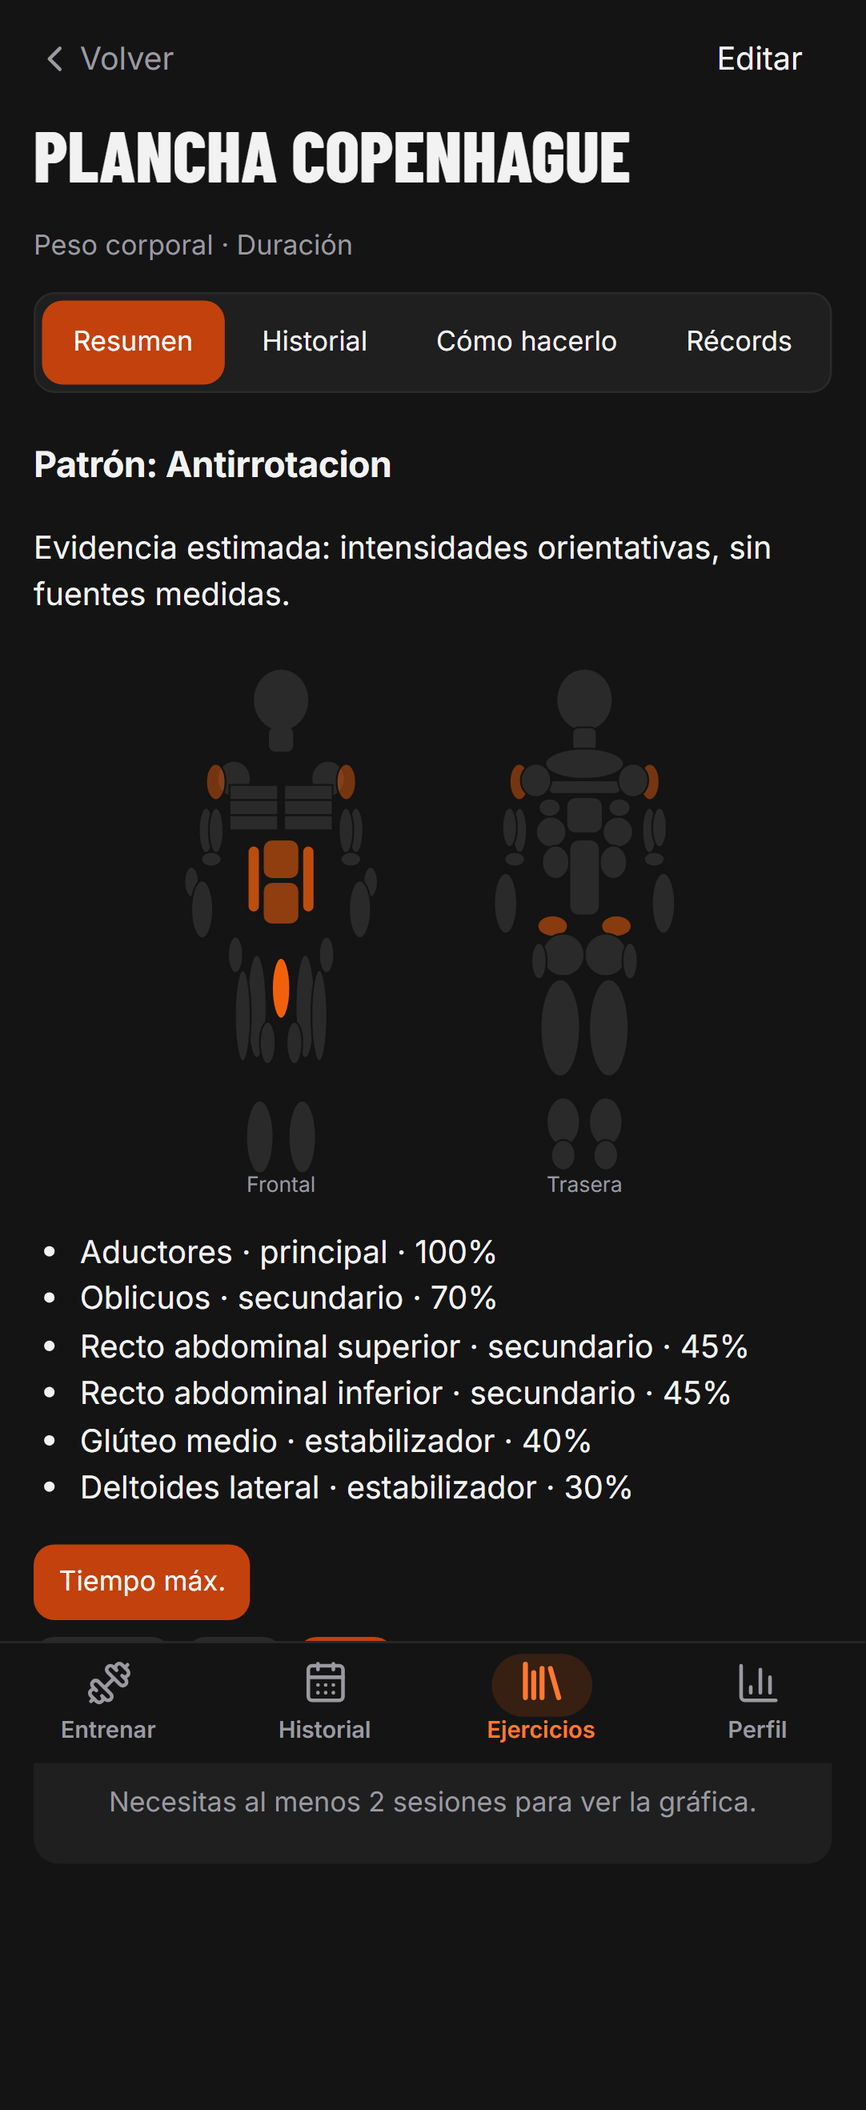
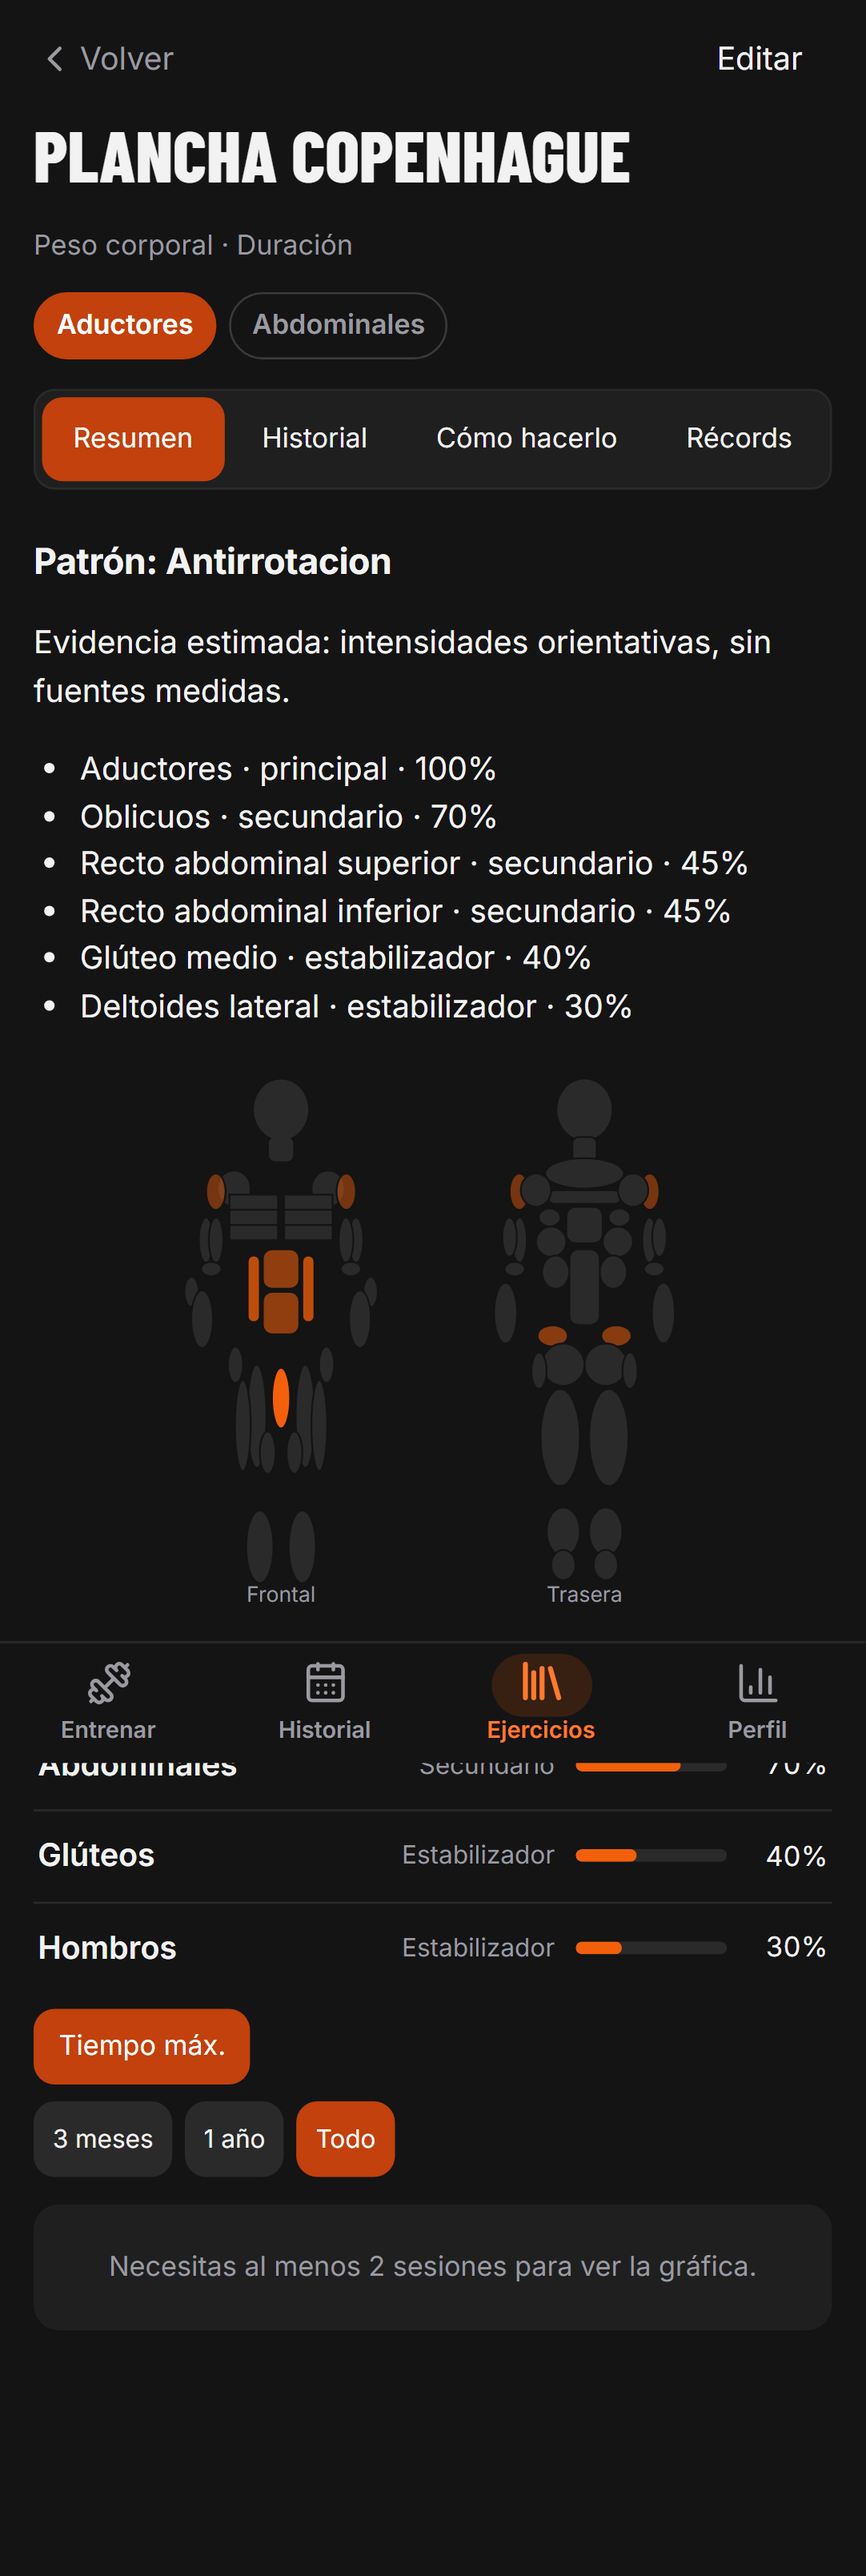
Restaura el mapa interactivo y protege las fuentes sin enlace

diff --git a/app/src/components/ExercisesTab.tsx b/app/src/components/ExercisesTab.tsx
@@ -6,7 +6,8 @@ import { englishName, searchExdb, type ExdbExercise } from '../../../shared/exer
 import { loadExdbList, useExdbConfig } from '../exdb';
 import { chat } from '../../../shared/ai';
 import { EXERCISE_KIND_LABELS, MUSCLE_LABELS, catalogLabel } from '../../../shared/exercises';
-import { MuscleFilter, ScienceMap } from './BodyMap';
+import { MuscleFilter, MuscleMap } from './BodyMap';
+import { exerciseActivation, isRegion, REGIONS } from '../../../shared/muscle-detail';
 import { availableExerciseScience } from '../../../shared/exercise-filter';
 import { estimate1RM, exerciseHistory, formatDuration, formatSet, personalRecords, repRecords, type ExerciseSession } from '../../../shared/stats';
 import type { Exercise, ExerciseKind, WorkoutSet } from '../../../shared/types';
@@ -285,6 +286,15 @@ function ExerciseDetail({ id, onBack }: { id: string; onBack: () => void }) {
       <p className="muted small">
         {cap(catalogLabel(e.equipment))} · {EXERCISE_KIND_LABELS[e.kind]}
       </p>
+      <ul className="exinfo-chips exdetail-chips" aria-label="Músculos principales y secundarios">
+        {exerciseActivation(e)
+          .filter((a) => a.pct >= 45)
+          .map((a) => (
+            <li key={a.group} className={a.pct >= 80 ? 'main' : undefined}>
+              {a.label}
+            </li>
+          ))}
+      </ul>
       <div className="segmented fit">
         {(['summary', 'history', 'howto', 'records'] as const).map((t) => (
           <button key={t} className={tab === t ? 'on' : ''} onClick={() => setTab(t)}>
@@ -299,16 +309,26 @@ function ExerciseDetail({ id, onBack }: { id: string; onBack: () => void }) {
             <section aria-label="Evidencia del ejercicio">
               <h2>Patrón: {cap(science.patron.replaceAll('-', ' '))}</h2>
               <p>{science.evidencia === 'estimada' ? 'Evidencia estimada: intensidades orientativas, sin fuentes medidas.' : `Evidencia: ${science.evidencia === 'emg' ? 'EMG' : 'hipertrofia'}`}</p>
-              <ScienceMap exercise={e} />
+              <ul aria-label="Músculos por rol">
+                {science.musculos.map((m) => (
+                  <li key={m.id}>
+                    {isRegion(m.id) ? REGIONS[m.id][1] : MUSCLE_LABELS[m.id]} · {m.rol} · {m.intensidad}%
+                  </li>
+                ))}
+              </ul>
               {science.fuentes.length > 0 && (
                 <>
                   <h3>Fuentes</h3>
                   <ul>
                     {science.fuentes.map((source, i) => (
                       <li key={i}>
-                        <a href={source.url ?? `https://doi.org/${source.doi}`} target="_blank" rel="noopener noreferrer">
-                          {source.titulo}
-                        </a>{' '}
+                        {source.url || source.doi ? (
+                          <a href={source.url ?? `https://doi.org/${source.doi}`} target="_blank" rel="noopener noreferrer">
+                            {source.titulo}
+                          </a>
+                        ) : (
+                          <span>{source.titulo}</span>
+                        )}{' '}
                         · {source.autores.join(', ')} ({source.año})
                       </li>
                     ))}
@@ -317,6 +337,7 @@ function ExerciseDetail({ id, onBack }: { id: string; onBack: () => void }) {
               )}
             </section>
           )}
+          <MuscleMap exercise={e} />
           {exdbCfg.key && (
             <button className="ghost small icon-btn" onClick={() => setPickGif(true)}>
               <Film size={15} /> {e.exdbId ? 'Cambiar GIF' : 'Elegir GIF'}

diff --git a/app/src/components/BodyMap.tsx b/app/src/components/BodyMap.tsx
@@ -3,8 +3,6 @@
 import { useState } from 'react';
 import { MUSCLE_LABELS } from '../../../shared/exercises';
 import { exerciseActivation, intensityLabel, REGIONS, type Region } from '../../../shared/muscle-detail';
-import { availableExerciseScience } from '../../../shared/exercise-filter';
-import { isRegion } from '../../../shared/muscle-detail';
 import type { Exercise, MuscleGroup } from '../../../shared/types';
 
 type Shape = { m: MuscleGroup | null; reg?: Region; d: string; clip?: string };
@@ -111,13 +109,7 @@ export default function BodyMap({ sets, fatigue = false }: { sets: Partial<Recor
           const v = s.m ? (sets[s.m] ?? 0) : 0;
           const ratio = v / max;
           return (
-            <path
-              key={i}
-              d={s.d}
-              clipPath={s.clip}
-              className={s.m ? 'bm-muscle' : 'bm-base'}
-              style={s.m && v ? { fill: fatigue ? 'var(--warn)' : 'var(--accent)', fillOpacity: 0.25 + 0.75 * ratio } : undefined}
-            >
+            <path key={i} d={s.d} clipPath={s.clip} className={s.m ? 'bm-muscle' : 'bm-base'} style={s.m && v ? { fill: fatigue ? 'var(--warn)' : 'var(--accent)', fillOpacity: 0.25 + 0.75 * ratio } : undefined}>
               {s.m && <title>{fatigue ? `${MUSCLE_LABELS[s.m]}: ${Math.round((1 - v) * 100)}% recuperado` : `${MUSCLE_LABELS[s.m]}: ${Math.round(v * 10) / 10} series`}</title>}
             </path>
           );
@@ -260,38 +252,5 @@ export function MuscleFilter({ value, onPick }: { value: MuscleGroup | ''; onPic
         );
       })}
     </svg>
-  );
-}
-
-/** Mapa científico: colores y roles proceden exclusivamente de metadatos explícitos. */
-export function ScienceMap({ exercise }: { exercise: Exercise }) {
-  const science = availableExerciseScience(exercise);
-  if (!science) return null;
-  return (
-    <div className="bodymap">
-      <svg viewBox="0 0 200 180" role="img" aria-label="Intensidad muscular según los metadatos">
-        {PEC_CLIP}
-        {SHAPES.map((shape, index) => {
-          const activation = science.musculos.find((m) => m.id === shape.reg) ?? science.musculos.find((m) => m.id === shape.m);
-          return (
-            <path
-              key={index}
-              d={shape.d}
-              clipPath={shape.clip}
-              className={shape.m ? 'bm-muscle' : 'bm-base'}
-              style={activation ? { fill: 'var(--accent)', fillOpacity: 0.2 + (0.8 * activation.intensidad) / 100 } : undefined}
-            />
-          );
-        })}
-        <Labels />
-      </svg>
-      <ul aria-label="Músculos por rol">
-        {science.musculos.map((m) => (
-          <li key={m.id}>
-            {isRegion(m.id) ? REGIONS[m.id][1] : MUSCLE_LABELS[m.id]} · {m.rol} · {m.intensidad}%
-          </li>
-        ))}
-      </ul>
-    </div>
   );
 }

diff --git a/e2e/app.spec.ts b/e2e/app.spec.ts
@@ -501,13 +501,17 @@ test('cada ejercicio marca sus músculos con intensidad y partes', async ({ page
   const row = page.locator('.exrow', { hasText: 'Press de banca (barra)' }).first();
   await expect(row.locator('svg.bm-thumb')).toHaveCount(1);
   await row.click();
-  const groups = page.getByRole('list', { name: 'Músculos por rol' });
-  await expect(groups).toContainText('Pecho');
-  await expect(groups).toContainText('principal');
-  await expect(groups).toContainText('100%');
-  await expect(groups).toContainText('secundario');
-  await expect(page.getByRole('img', { name: 'Intensidad muscular según los metadatos' })).toBeVisible();
-  await expect(groups).toContainText('Pecho medio (esternal)');
+  const groups = page.locator('.act-list > li');
+  await expect(groups.first()).toContainText('Pecho');
+  await expect(groups.first()).toContainText('Principal');
+  await expect(groups.first()).toContainText('100%');
+  await expect(page.locator('.act-list')).toContainText('Secundario');
+  await expect(page.getByRole('img', { name: 'Músculos que trabaja' })).toBeVisible();
+  // Tocar el grupo despliega sus partes con su intensidad
+  await groups.first().getByRole('button').click();
+  await expect(groups.first().getByRole('button')).toHaveAttribute('aria-expanded', 'true');
+  await expect(groups.first().locator('.act-parts')).toContainText('Pecho medio (esternal)');
+  await expect(groups.first().locator('.act-parts li')).toHaveCount(3);
 });
 
 test('marcar una serie activa el estilo hecho y aria-pressed', async ({ page, errors }) => {

diff --git a/e2e/evidence.spec.ts b/e2e/evidence.spec.ts
@@ -59,9 +59,13 @@ test('catalogo y personalizado sin metadatos no atribuyen evidencia', async ({ p
   await page.locator('.exrow').first().click();
   await expect(page.getByRole('heading', { name: 'Prueba sin ciencia' })).toBeVisible();
   await expect(page.getByRole('region', { name: 'Evidencia del ejercicio' })).toHaveCount(0);
+  await expect(page.getByRole('img', { name: 'M\u00fasculos que trabaja' })).toBeVisible();
+  await expect(page.getByRole('list', { name: 'M\u00fasculos principales y secundarios' })).toBeVisible();
   await page.getByRole('button', { name: 'Volver', exact: true }).click();
   await page.getByRole('textbox', { name: 'Buscar ejercicio' }).fill('zottman');
   await page.locator('.exrow').first().click();
   await expect(page.getByRole('heading', { level: 1 })).toContainText('Zottman');
   await expect(page.getByRole('region', { name: 'Evidencia del ejercicio' })).toHaveCount(0);
+  await expect(page.getByRole('img', { name: 'M\u00fasculos que trabaja' })).toBeVisible();
+  await expect(page.getByRole('list', { name: 'M\u00fasculos principales y secundarios' })).toBeVisible();
 });

diff --git a/shared/exercise-filter.ts b/shared/exercise-filter.ts
@@ -1,12 +1,11 @@
 import { matchesExercise } from './exercises';
 import { EXERCISE_EVIDENCE_MATRIX, resolveCatalogExerciseScience } from './exercise-evidence';
-import { parseExerciseScience } from './exercise-science';
 import type { Exercise, MovementPattern, MuscleGroup } from './types';
 
 /** Solo metadatos explícitos: nunca el patrón o las intensidades del fallback. */
 export function availableExerciseScience(exercise: Exercise) {
   if (!exercise.science && (exercise.custom || !EXERCISE_EVIDENCE_MATRIX[exercise.id])) return undefined;
-  return parseExerciseScience(resolveCatalogExerciseScience(exercise));
+  return resolveCatalogExerciseScience(exercise);
 }
 
 export function filterExercises(exercises: Exercise[], filters: { q?: string; muscle?: MuscleGroup | ''; equipment?: string; pattern?: MovementPattern | '' }) {

diff --git a/shared/exercise-filter.test.ts b/shared/exercise-filter.test.ts
@@ -34,3 +34,8 @@ describe('filtro de ejercicios', () => {
     expect(availableExerciseScience(estimated)).toEqual(estimated.science);
   });
 });
+
+it('conserva las fuentes sin enlace como texto sin impedir consultar los metadatos', () => {
+  const science = { ...availableExerciseScience(sourced)!, fuentes: [{ titulo: 'Referencia sin enlace', autores: ['Autor'], año: 2024 }] };
+  expect(availableExerciseScience({ ...sourced, science })).toEqual(science);
+});

diff --git a/docs/issue-52/README.md b/docs/issue-52/README.md
@@ -1,6 +1,6 @@
 # Verificación de la issue #52
 
-- `npm run check`: correcto, 32 ficheros y 242 tests; cobertura de líneas 95,34 %.
+- `npm run check`: correcto, 32 ficheros y 243 tests; cobertura de líneas 95,34 %.
 - `npm --prefix app run build` y `npm run e2e`: correctos, 71 pruebas e2e.
 - Axe sin infracciones en las fichas con fuentes y estimada, en claro y oscuro.
 - La prueba abre la ficha con foco en la fila y Enter; los controles nativos de filtro tienen nombre accesible.
@@ -15,3 +15,5 @@ Las capturas anteriores se generaron compilando los tres componentes originales 
 | Antes | [Biblioteca](evidence-before-library.png) | [Ficha](evidence-before-detail.png) |
 | Después, claro | [Filtros](evidence-filters-light.png) | [Con fuentes](evidence-sourced-light.png), [estimada](evidence-estimated-light.png) |
 | Después, oscuro | [Filtros](evidence-filters-dark.png) | [Con fuentes](evidence-sourced-dark.png), [estimada](evidence-estimated-dark.png) |
+
+Revisión del PR: se restaura el mapa interactivo y las chips para todos los ejercicios; la prueba original comprueba de nuevo aria-expanded y las tres partes del pecho, y los casos sin metadatos comprueban mapa y chips sin sección de evidencia. Las fuentes sin URL ni DOI se presentan como texto.
